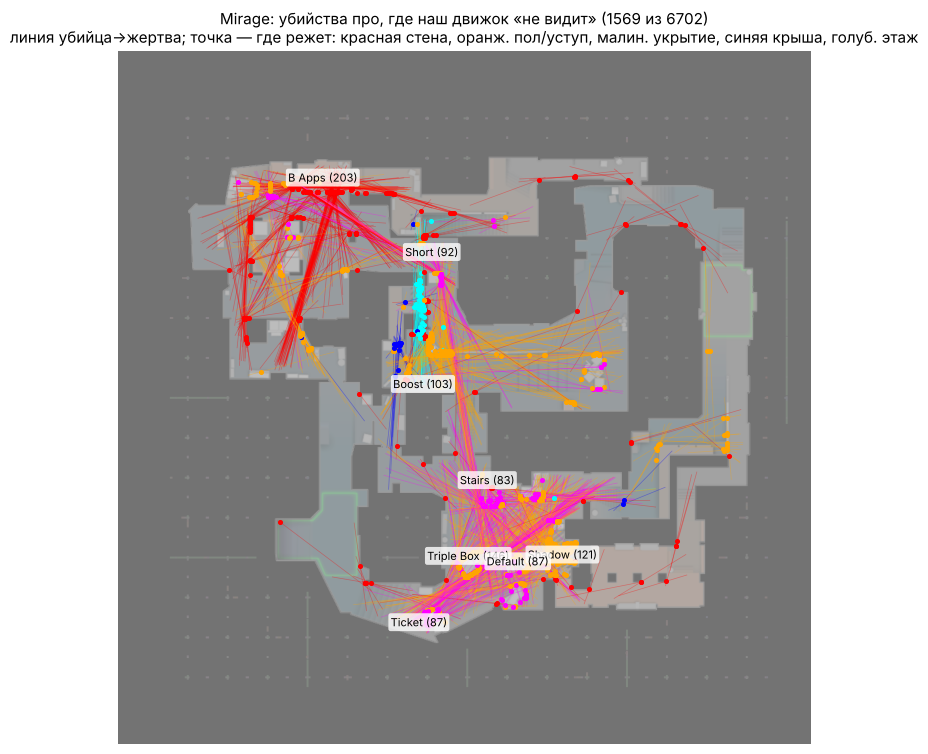
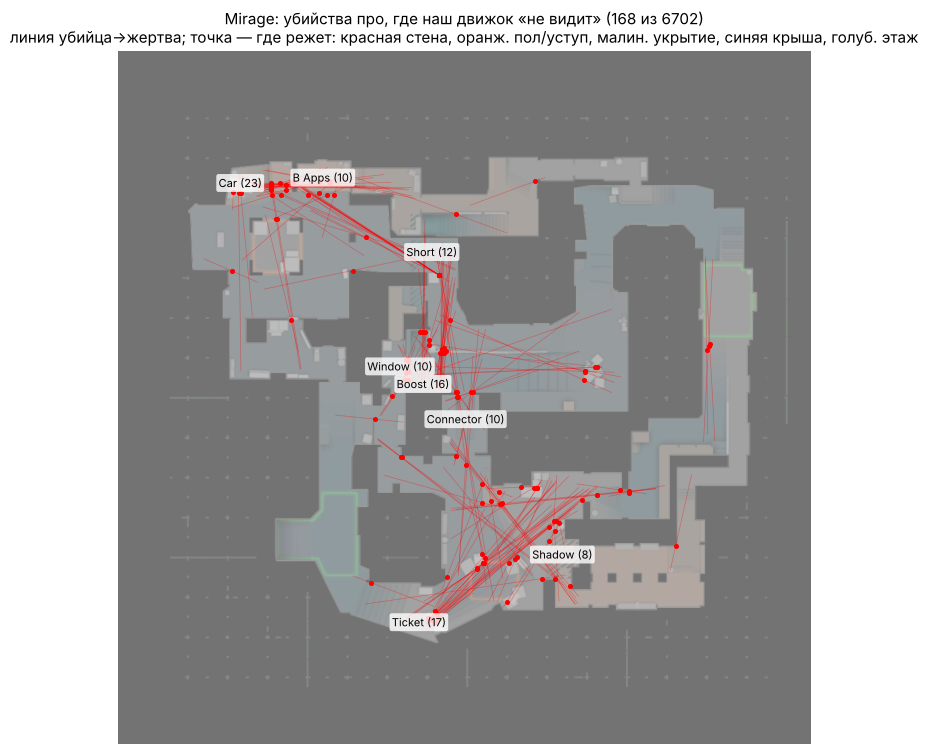
А5 (в работе): разбор видимости Mirage по геометрии (не видно 23,4 → 2,5 %), документация
Claude-Session: https://claude.ai/code/session_01V5YsLjQH6yugews6H3QP3s

diff --git a/docs/ARCHITECTURE.md b/docs/ARCHITECTURE.md
@@ -106,13 +106,14 @@
 |---|---|---|---|
 | `map.json` | верхний уровень | `id`, `name`; `store` — начало ключей хранилища браузера (для Ancient прежнее `ancient-live-radar`, правки владельца в браузере не теряются); `db` — коллекция базы страницы для правок редактора (`map`); `pxUnits` — юнитов CS2 в 1 px радара; `zoneLayer` — выравнивание слоя зон по радару; `spawns` — имена точек спавнов в `zones.zonemap.points`; `spawnFix` — поправка точки спавна; `siteAFix` — разовая починка данных браузера (сайт A, нарисованный как B); `ui` — подсказки | `PX_UNITS`, `ZONE_LAYER_BASELINE`, `CT_SPAWN`/`T_SPAWN`, `T_SPAWN_FIX_RAW`, ключи `*_KEY`, `MAPED.db.collection(MAP.db)` |
 | `radar.png` | `radar` (data URI) | фон радара | `img.src` |
-| `zones.json` | `zones` | `centers` (v319, необязательное) — середина зоны на её этаже, игра берёт её вместо среднего углов (`zoneMapCentroid`); `zonemap` (зоны, точки, переходы; `name` у зоны — роль: `Asite`, `Bsite`, `CTspawn`, `Tspawn`), `shapes` (свои формы зон), `names` (названия для людей и тактик, «Red Room / Red» — основное и варианты), `synonyms`, `props` — **свойства зон** (`water` — вода, громкие шаги) | `ZONEMAP`, `ZONE_SHAPES_BAKED`, `ZONE_NAMES_BAKED`, `ZONE_SYNONYMS`, `inWater` |
+| `zones.json` | `zones` | (А5) `navZone` (необязательное) — зона каждого участка навмеша по этажу геометрии (`zoneIdAt3` без растекания), у зоны `level` (`low` — нижний этаж) и `z` — её высота; `centers` (v319, необязательное) — середина зоны на её этаже, игра берёт её вместо среднего углов (`zoneMapCentroid`); `zonemap` (зоны, точки, переходы; `name` у зоны — роль: `Asite`, `Bsite`, `CTspawn`, `Tspawn`), `shapes` (свои формы зон), `names` (названия для людей и тактик, «Red Room / Red» — основное и варианты), `synonyms`, `props` — **свойства зон** (`water` — вода, громкие шаги) | `ZONEMAP`, `ZONE_SHAPES_BAKED`, `ZONE_NAMES_BAKED`, `ZONE_SYNONYMS`, `inWater` |
 | `navmesh.json` | `navmesh.areas` | навмеш в пространстве радара (2048×2048) | `NAVAREAS` |
 | `walls.json` | `walls.polys` | стены | `WALL_POLYS_CODE` |
 | `heights.json`, `cover.json`, `wallbang.json` | `heights`, `cover`, `wallbang` | высоты, укрытия, прострелы (поле `own` — правки владельца, `tools/map_pull.py`) | `HEIGHTS`, `COVER`, `WALLBANG` |
 | `tactics.json` | `tactics` | `geoMid` (v319, необязательное) — мид CT и T из демок `{ct, ctLook, t, tLook}` вместо точек на пути между спавнами (`buildSites`); `tTactics` (у тактики `weight` — своя частота), `ctSetups` (у сетапа `midAggressive` — агрессивный мид), `pos`, `lurkPlans`, `shiftTo`, `proRole`, `plays` — розыгрыши (ниже) | `T_TACTICS`, `CT_SETUPS`, `POS`, `LURK_PLANS`, `SHIFT_TO`, `PRO_ROLE` |
 | `lineups.json` | `lineups` | `baked` (лайнапы из редактора), `pro` и `proExtra` (из демок; `proExtra` — только при `BAL.nadeMore`), `builtinOff` | `LINEUPS_BAKED`, `PRO_LINEUPS_RAW`, `BUILTIN_OFF_BAKED` |
 | `pro.json` | `pro` | места и взгляды про из демок: `spots`, `prior`, `look`, `positions`; `pistolNades` (v370, `tools/nades_pro.py`) | `PRO_SPOTS`, `PRO_PRIOR`, `PRO_LOOK`, `KNOW_POSITIONS` |
+| `map3d.json` (А5, необязательный) | `map3d` | 3D-геометрия игры (раздел «Карта 3D» ниже): есть — видимость, «в стене», гранатные проверки идут по ней, стены радара — только рисование | `MAP3D`, `m3()` (`035_map3d.js`) |
 | `climbs.json` (v372, необязательный) | `climbs` | подъёмы из демок (`tools/climbs_bake.py`): уступ «только спрыгнуть», куда про залезают — `{lo, hi, n, sec}` | связь «вверх» в `NAVAREAS[].conn`, `LADDERS` (`up:true`) |
 
 Старые имена (`ZONEMAP`, `HEIGHTS`, `T_TACTICS`, …) остались короткими ссылками на `MAP.…` на тех же местах кода — порядок
@@ -159,6 +160,7 @@ CT идёт через зону с ролью `CTspawn`.
 | `heights` | `tools/heights_bake.py --map` (крыто — по штриховке радара Simple Radar `sources.simpleRadar`; v321: `roofs` — контуры крыш оттуда же: в игре потолок видимости и слой высот) | `heights.json` |
 | `cover` | `tools/cover_bake.py --map` (ящик без стены — не больше 4000 ед.² и плотный: крыши и галереи — не ящики) | `cover.json` |
 | `zones` | `tools/zones_bake.py --map`: каждый участок навмеша — к ближайшей ПО ПОЛУ подписи радара (`callouts`), контур зоны — по картинке участков; переходы — по связям навмеша; роли и точки — `roles`; спорные зоны — `_zones_report.json`; v321: зона длиннее 380 ед. от своей подписи делится, кусок зовётся «<зона> → <соседняя подпись>» | `zones.json` |
+| `zones3d` | (А5, Mirage — вместо `zones`) `tools/map3d/zones_game.py --map`: зоны владельца `geom3d/zones_owner.json` (А4) → формат игры: контур — клетки зоны (больший кусок), `z` — медиана пола, зоны нижнего этажа — в конце списка, `navZone` — зона участка навмеша по этажу под его серединой, переходы — по связям навмеша; точки ролей и `sites` — прежние. После него — `demos` (`positions_bake`, `player_positions_bake`, `tactics_bake --game`, `roles_bake`: названия зон в тактиках) | `zones.json` |
 | `wallbang` | `tools/wallbang_bake.py --map`: правила CS2 + куски карты (у Ancient — список с источниками; v321: у карты без списка — из демок: убийства с `penetrated` ≥ 1, где линия выстрела проходит сквозь одну стену, кластер ≥ 3 убийств из ≥ 2 матчей; материал — проектное число) | `wallbang.json` |
 | `map` | `map.json` (масштаб из `.txt`, спавны — точки зон-ролей, `spawnFix.T` = точка спавна T) и `radar.png` | `map.json`, `radar.png` |
 | `demos` | `tools/demos_bake.py --map` — все скрипты по демкам по порядку (ниже), промежуточное — в `data/maps/<карта>/pro/` (у Ancient — `data/pro/`); v321: границы сайтов — красные квадраты Simple Radar (без него — оболочка плантов) → `zones.json` `sites` | `pro.json`, `lineups.json`, `tactics.json`, `zones.json` (`sites`) |
@@ -197,11 +199,23 @@ CT идёт через зону с ролью `CTspawn`.
 Устройство на v197–v204 (src/js/*, заглушка вместо мозга, таблица файлов и цифры здоровья того времени) — `docs/archive/ARCHITECTURE-v204.md`.
 Сейчас карта файлов — `CLAUDE.md`, таблица «Где что».
 
-## Карта 3D (map3d.json) — А3–А4 (20.10.2026), в игру ещё не подключена (А5)
+## Карта 3D (map3d.json) — А3–А4 (20.10.2026), в игре с А5
 Источник — геометрия столкновений из файла игры (`data/maps/<карта>/geom3d/world_physics.npz`, А1–А2), без невидимых стен
 и без «стен радара». Сборка: `python3 tools/map3d/columns.py --map <карта>` (≈ 80 с) → `layers.py` (≈ 35 с) → `zones_owner.py`;
-картинки — `layer_pics.py`; проверка образцом игры — `node tools/map3d/map3d_check.js <карта>`. Файлы лежат в `geom3d/` — в объект
-`MAP` не попадают (`src/mapset.py` берёт только `*.json` в корне набора); в А5 — перенести в корень набора.
+картинки — `layer_pics.py`; проверка образцом игры — `node tools/map3d/map3d_check.js <карта>`. `map3d.json` (с А5) — в корне набора
+(игра: `MAP.map3d`); остальное — в `geom3d/` (в `MAP` не попадает: `src/mapset.py` берёт только `*.json` в корне).
+
+**В игре (А5)** — `src/game/035_map3d.js` (один код с node: `tools/map3d/map3d.js` его подключает): распаковка zlib своя
+(`zInflate`, синхронно, ≈ 0,25 с на загрузку), `m3()` — геометрия при первом вопросе; столбики гранат и неба — при первом
+броске. Что берёт геометрию, если она у карты есть (иначе — прежняя сетка VIS по стенам радара, навмешу и укрытиям, Ancient до А6):
+- `visMarch` = луч `m3Line(…, 'sight')`; `visWallHit` и `levelBlocked` — пусто (у геометрии свои стены и перекрытия на каждом этаже);
+  `visFloorAt(x, y, z)` — этаж клетки на высоте бота (самый высокий не выше z + 18), без z — верхний этаж «пешком». `visParts` —
+  голова, грудь, живот, плечи ±14 ед. (М140) — через них; `hasLOS(x1, y1, x2, y2, z1, z2)` — с высотой бота (М140);
+- `insideSolidWall` / `segCrossesManualWalls` / `crossesWall` / `nadeWallHit` — по сетке `m3Solid` (клетка без этажа геометрии и без
+  навмеша; кто уже «в стене», выходит); `rebuildNav` участки не выкидывает и переходы не режет — ходьба по навмешу из того же файла;
+- `nadeArc` — дуга ломаной из 12 лучей `'nade'`, `nadeCovered` — над полом есть преграда для гранат выше 80 ед. (временно, до В2–В3);
+- стены радара (`walls.json`, `MANUAL_WALLS`) — рисование, редактор и лучи «конуса» на экране; укрытия, высоты, крыши набора
+  видимость не читает. Проверка «кто кого видит» (`610`) красит клетки, где есть этаж «пешком».
 
 **Сетка** — та же, что `VIS`: клетка `cell` = 2 px радара 0..2048 (`unit` = 5 ед. игры у Mirage), `W` = 1024 клетки по стороне,
 клетка `(i, j)` = `x ∈ [i·cell, (i+1)·cell)`, `y` — так же; номер `j·W + i`. Все массивы — little-endian, сжаты zlib (deflate) и в base64
